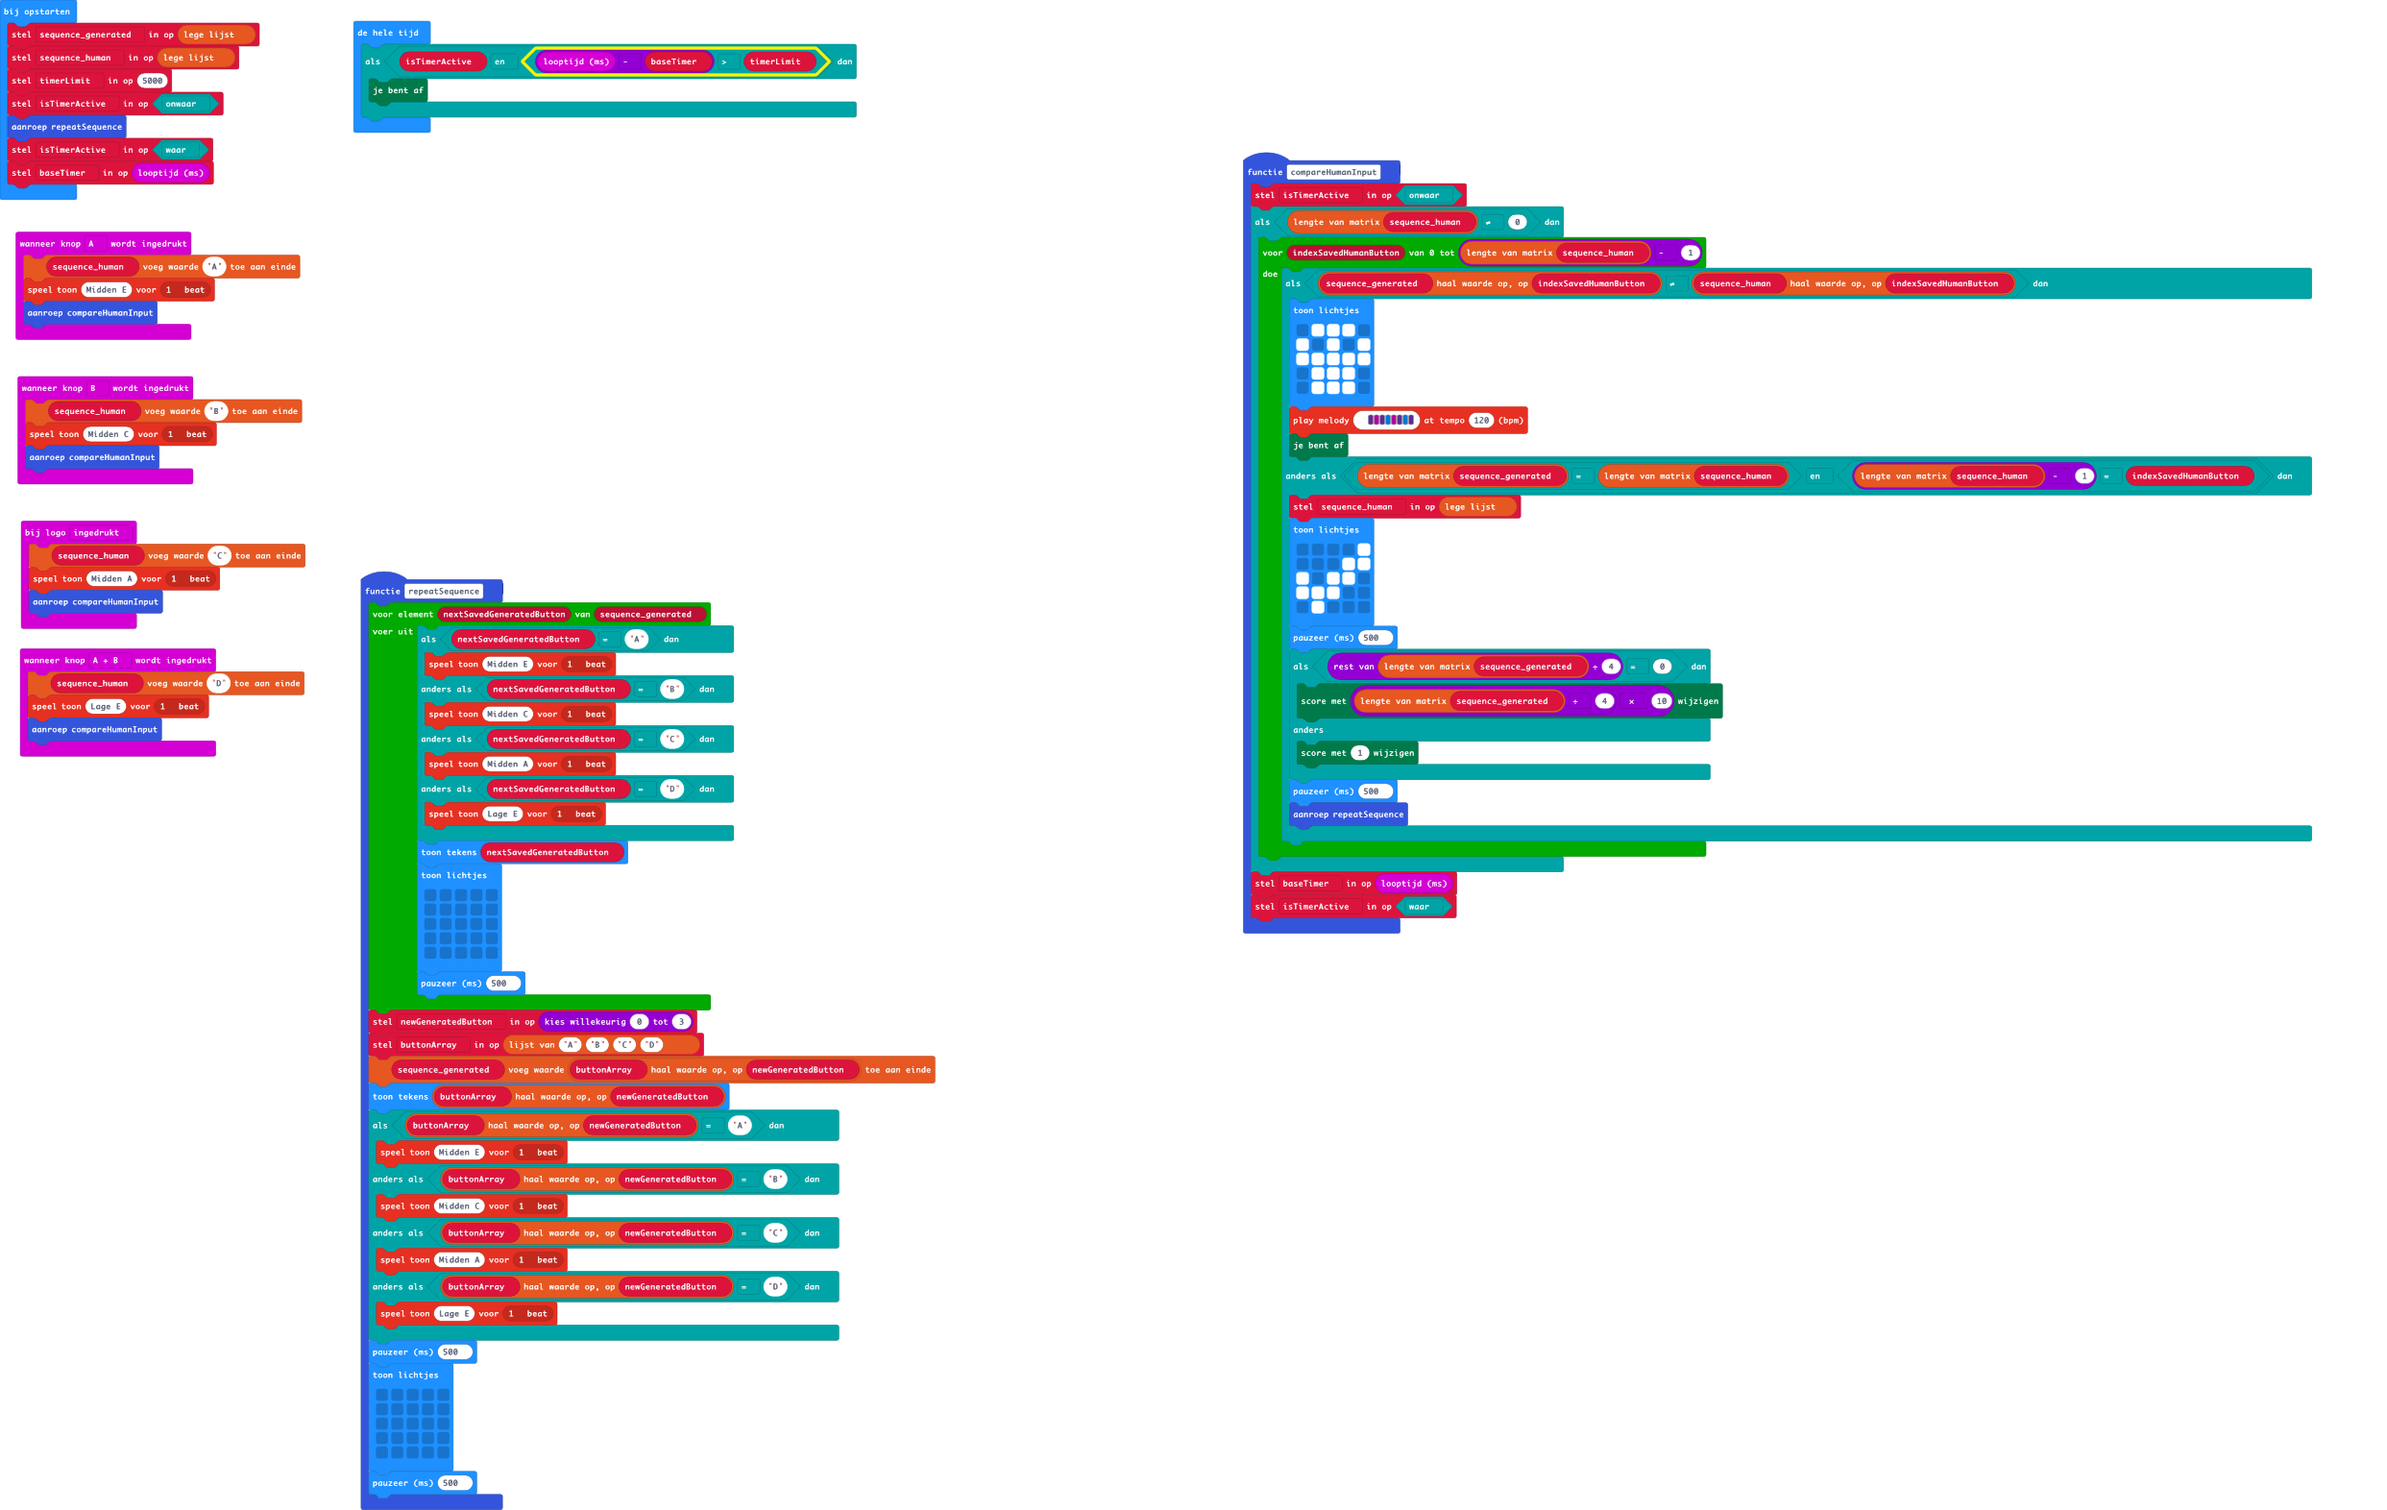
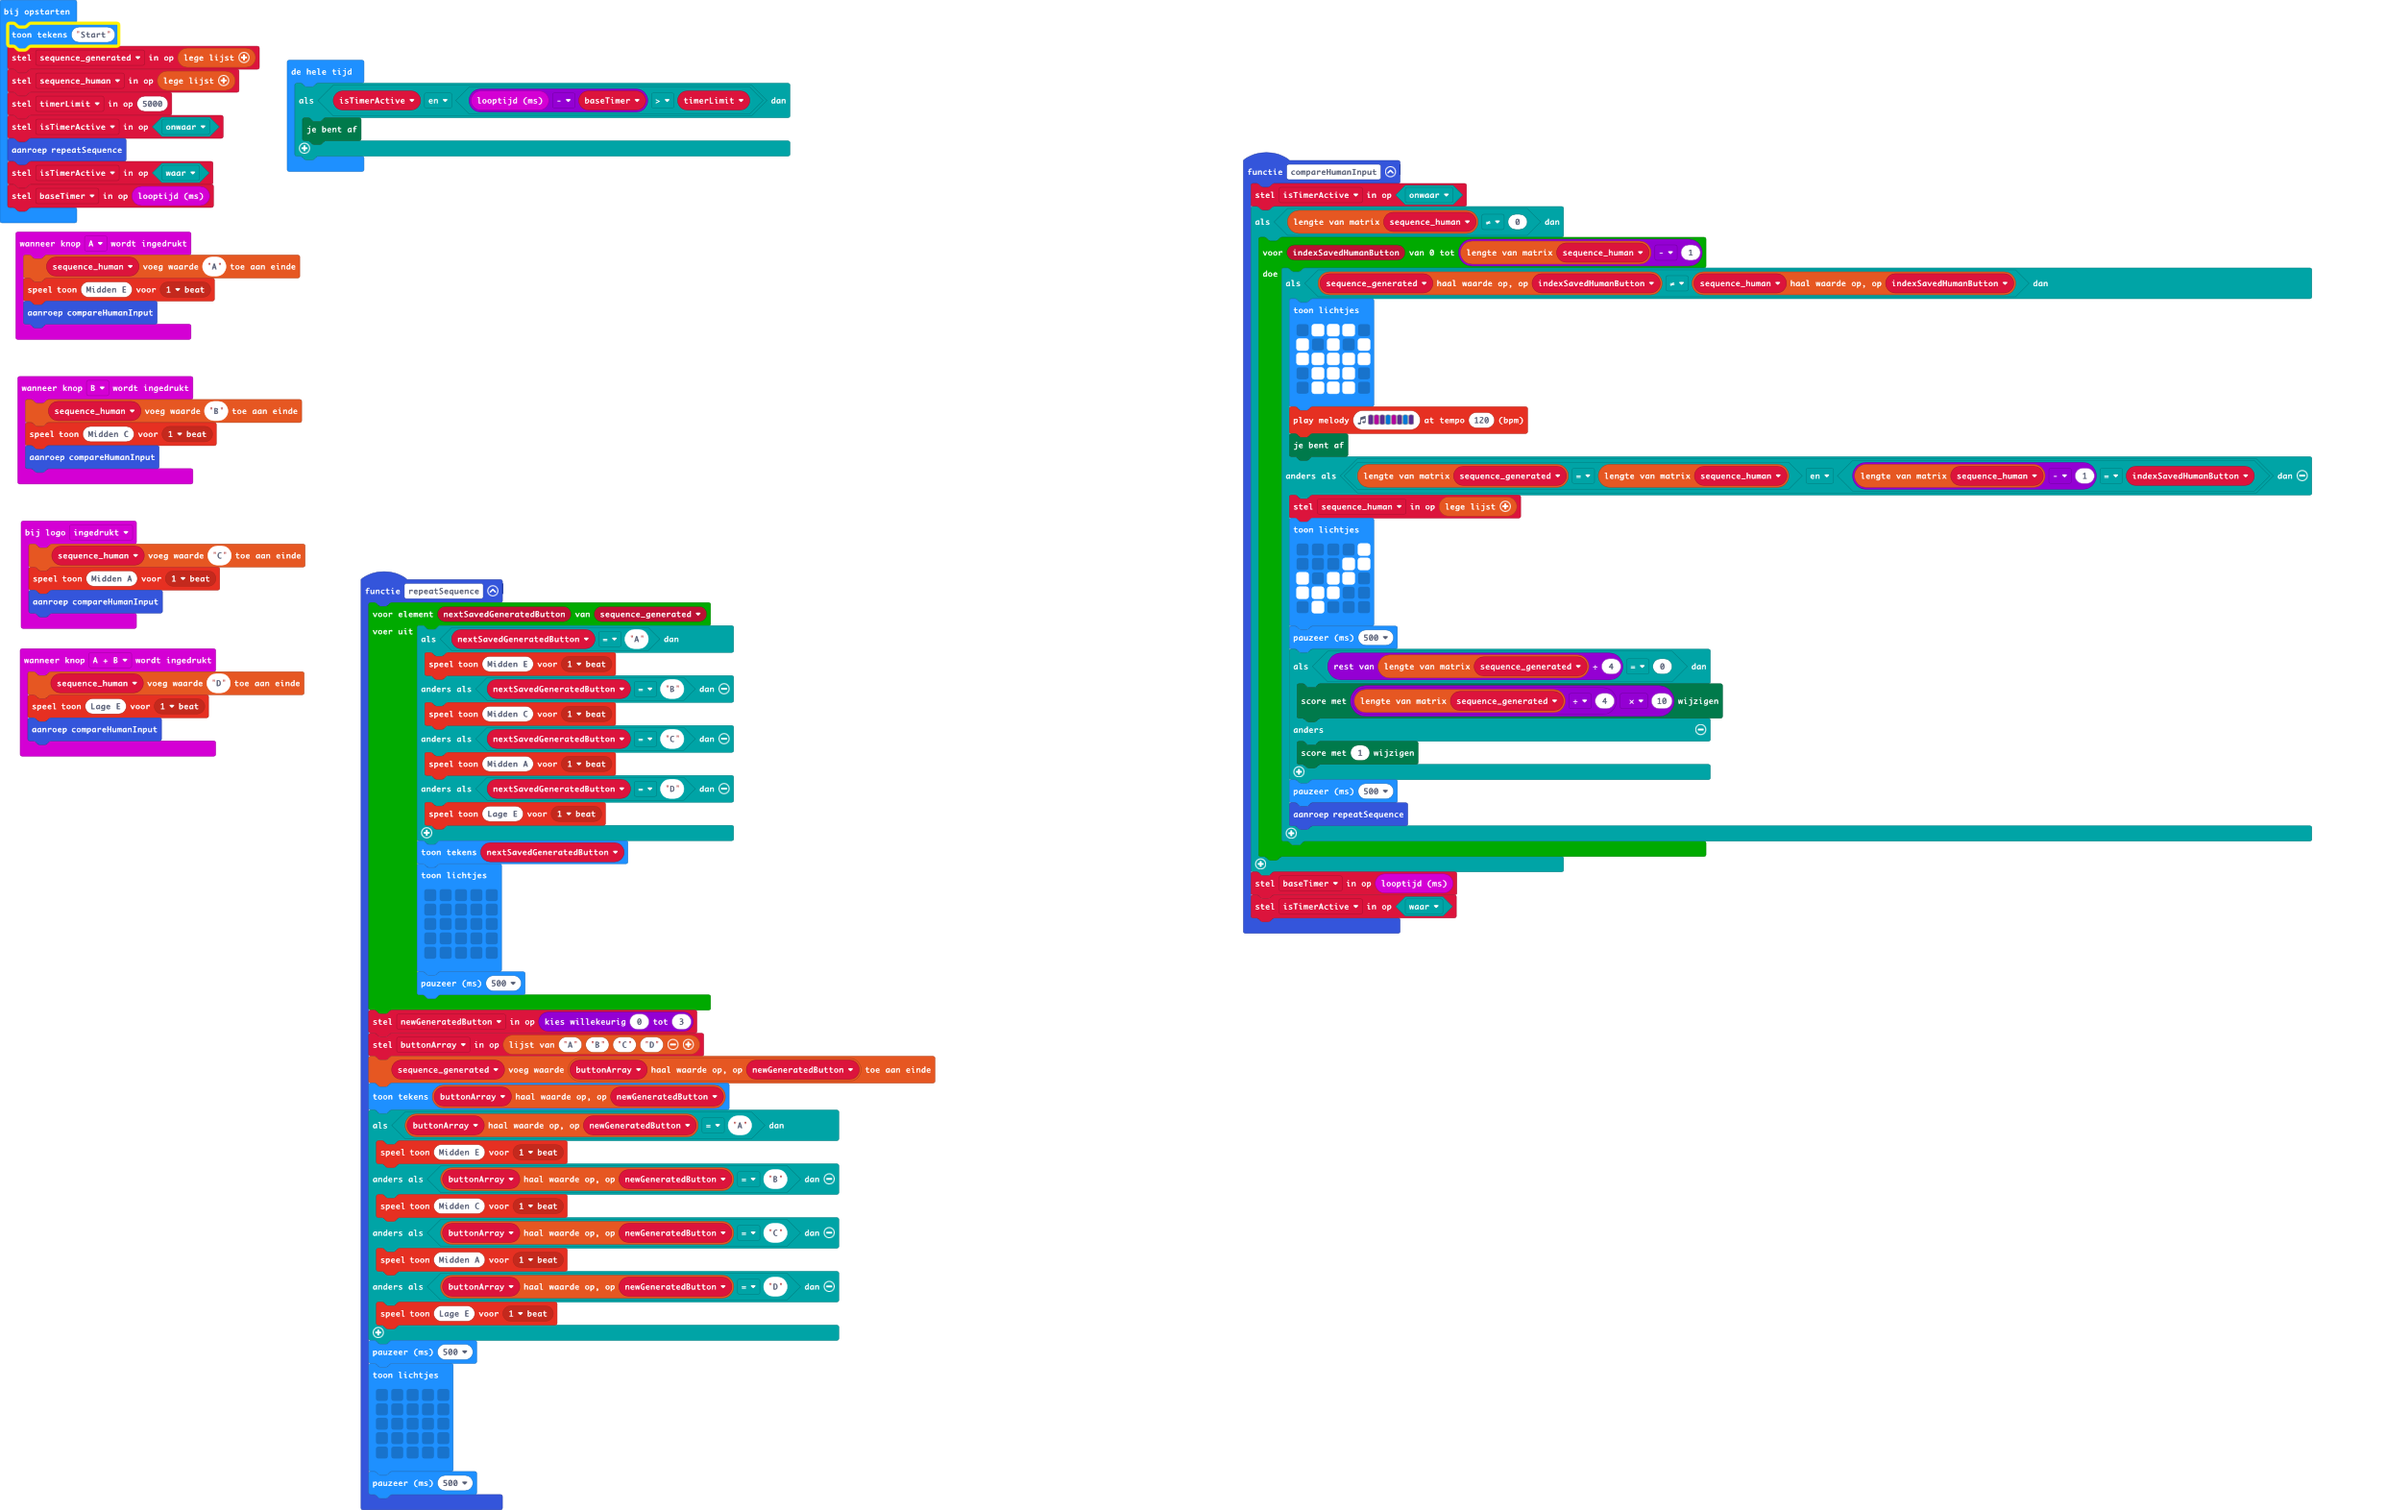
main.blocks, main.ts bijwerken

Changed region(s): [[0.0, 0.0, 0.3718, 0.1559]]

diff --git a/main.ts b/main.ts
@@ -105,6 +105,7 @@ let baseTimer = 0
 let isTimerActive = false
 let sequence_human: string[] = []
 let sequence_generated: string[] = []
+basic.showString("Start")
 sequence_generated = []
 sequence_human = []
 let timerLimit = 5000
